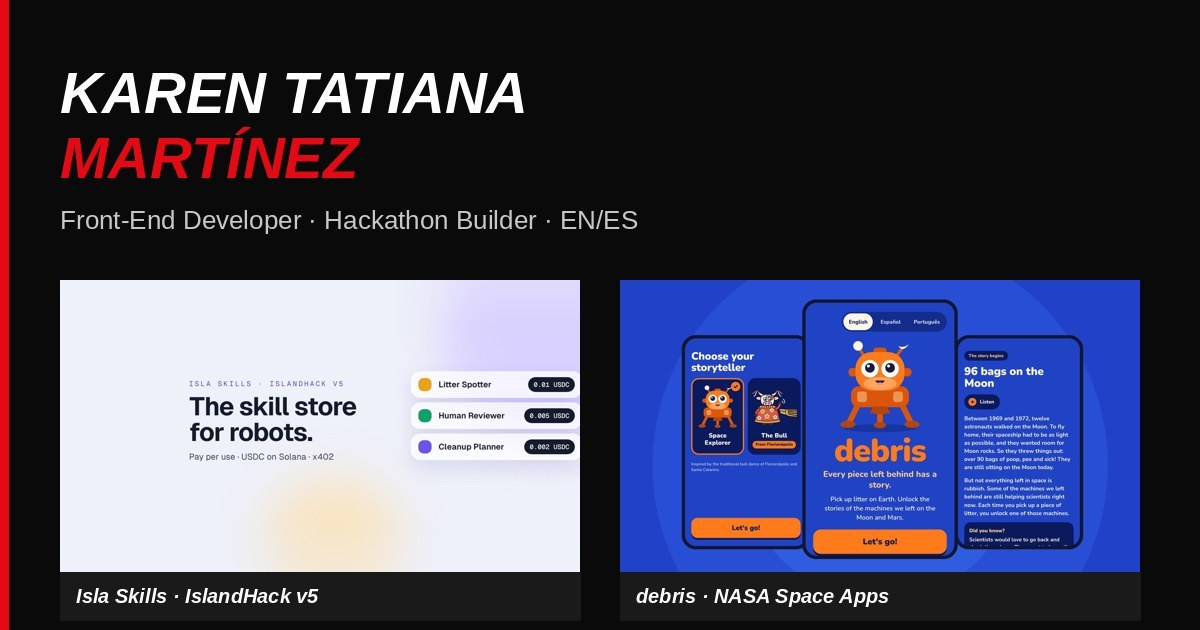
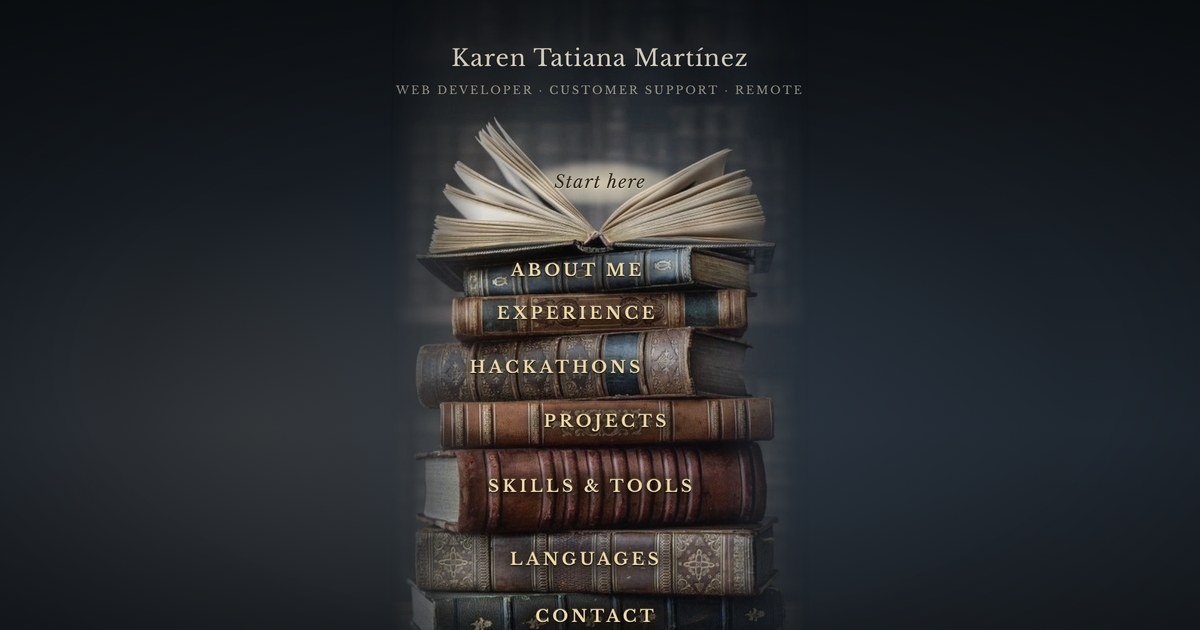
New share image: the library home
Claude-Session: https://claude.ai/code/session_014XdYp2dz2vvdgxT8d8upo3

diff --git a/index.html b/index.html
@@ -7,14 +7,17 @@
   <meta name="description" content="Karen Tatiana Martínez: front-end developer and technical support specialist from Colombia. Spanish (native), English (advanced), Portuguese (intermediate). Hackathon builds with AI, Solana payments and games for kids."/>
   <meta name="theme-color" content="#1c232b"/>
   <meta property="og:type" content="website"/>
-  <meta property="og:title" content="Karen Tatiana Martínez · Front-End Developer & Hackathon Builder"/>
+  <meta property="og:title" content="Karen Tatiana Martínez · Web Developer &amp; Customer Support"/>
   <meta property="og:description" content="Isla Skills, an app store where robots pay for skills per use (IslandHack v5), and debris, a NASA Space Apps game that turns litter pick-ups into space stories."/>
   <meta property="og:url" content="https://katamar-lang.github.io/PORTAFOLIO/"/>
-  <meta property="og:image" content="https://katamar-lang.github.io/PORTAFOLIO/img/og.jpg"/>
+  <meta property="og:image" content="https://katamar-lang.github.io/PORTAFOLIO/img/og.jpg?v=2"/>
+  <meta property="og:image:width" content="1200"/>
+  <meta property="og:image:height" content="630"/>
+  <meta property="og:image:alt" content="A stack of old leather books; each spine is a section of the portfolio"/>
   <meta name="twitter:card" content="summary_large_image"/>
-  <meta name="twitter:title" content="Karen Tatiana Martínez · Front-End Developer & Hackathon Builder"/>
+  <meta name="twitter:title" content="Karen Tatiana Martínez · Web Developer &amp; Customer Support"/>
   <meta name="twitter:description" content="Isla Skills (IslandHack v5) and debris (NASA Space Apps): AI, Solana payments and games for kids."/>
-  <meta name="twitter:image" content="https://katamar-lang.github.io/PORTAFOLIO/img/og.jpg"/>
+  <meta name="twitter:image" content="https://katamar-lang.github.io/PORTAFOLIO/img/og.jpg?v=2"/>
   <link rel="preload" href="fonts/LibreBaskerville-400-normal.woff2" as="font" type="font/woff2" crossorigin/>
   <link rel="preload" href="img/library.jpg" as="image"/>
   <link rel="stylesheet" href="css/style.css?v=library15"/>
